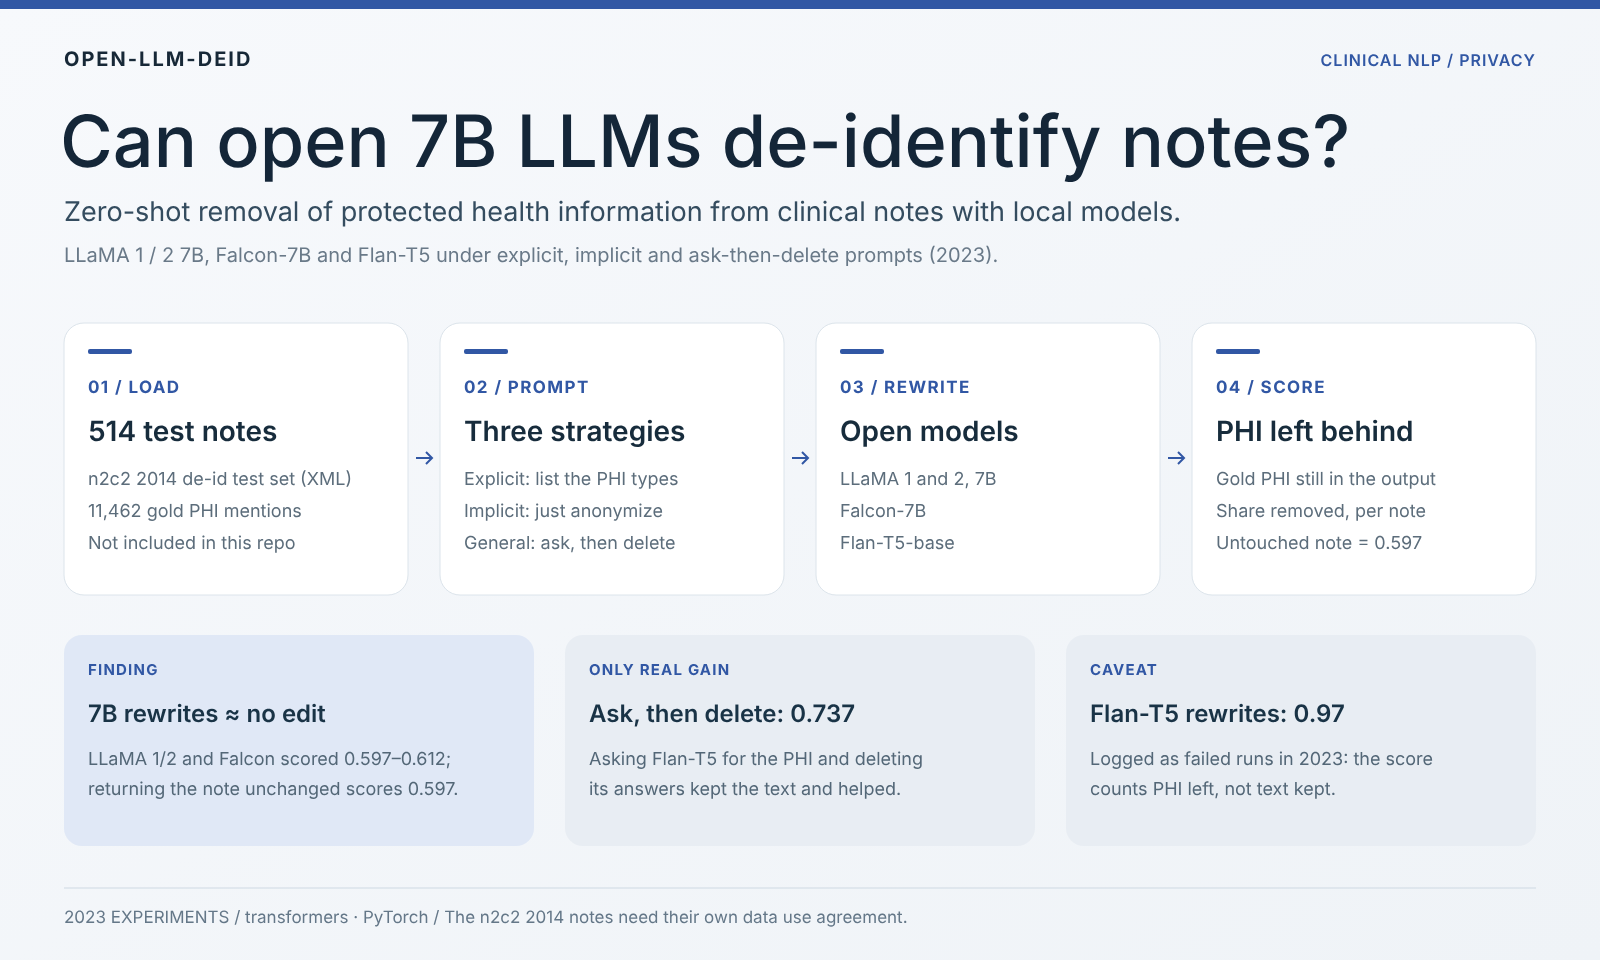
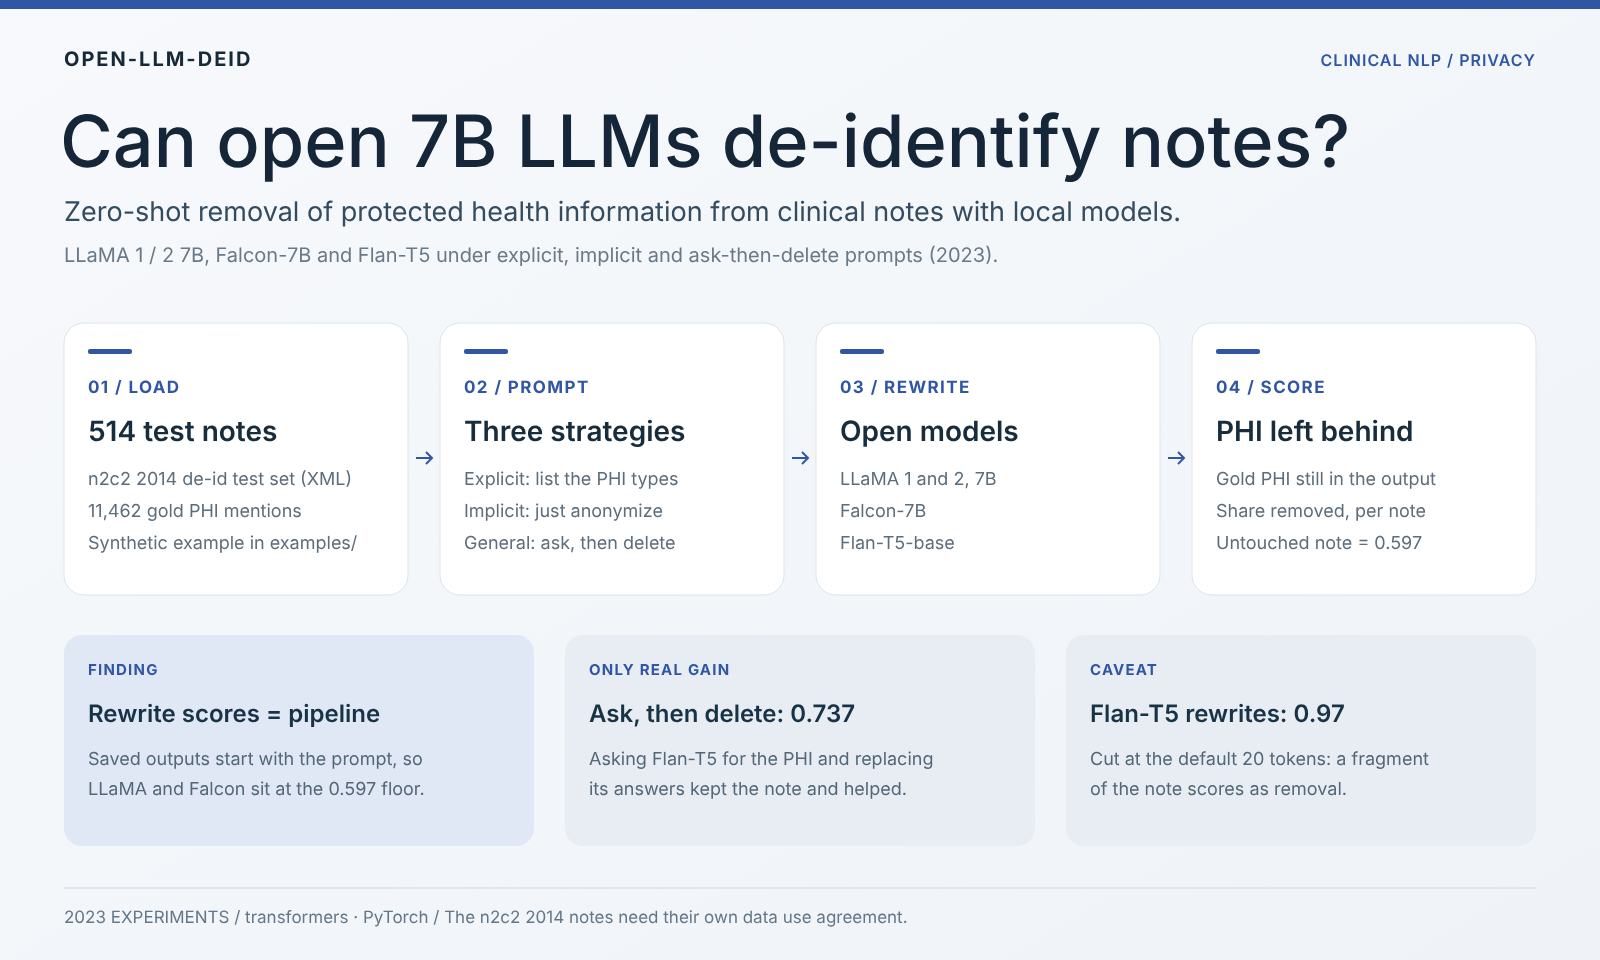
Add a synthetic worked example; correct what the 2023 scores show
examples/ holds an invented note in the n2c2 XML format, the exact input
for each prompt, hand-written expected outputs and a scorer that runs
without the restricted data. The README now explains that the rewrite
scores sit at the untouched-note floor because the scripts save the
prompt with the output (and Flan-T5 stops at 20 tokens), and lists what
a rerun needs.

diff --git a/examples/score_example.py b/examples/score_example.py
@@ -1,0 +1,44 @@
+"""Score the synthetic example with the same rule as Accuracy.py, no n2c2 data needed.
+
+    python3 examples/score_example.py
+
+Rule (as in Accuracy.py): a gold PHI string counts as leaked when it appears as a whole
+whitespace-separated word in the output; each distinct string counts once; the score is
+1 - leaked / number of PHI mentions.
+"""
+import os
+import xml.etree.ElementTree as ET
+
+HERE = os.path.dirname(os.path.abspath(__file__))
+CATS = ("NAME", "PROFESSION", "LOCATION", "AGE", "DATE", "CONTACT", "ID")
+
+
+def load(path):
+    root = ET.parse(path).getroot()
+    note = root.find("TEXT").text
+    phi = [t.get("text") for t in root.find("TAGS") if t.tag in CATS]
+    return note, phi
+
+
+def score(output, phi):
+    leaked = set(phi).intersection(output.split())
+    return 1 - len(leaked) / len(phi), sorted(leaked)
+
+
+def read(*parts):
+    with open(os.path.join(HERE, *parts), encoding="utf-8") as f:
+        return f.read()
+
+
+note, phi = load(os.path.join(HERE, "notes", "synthetic-001.xml"))
+cases = {
+    "note returned unchanged": note,
+    "prompt + note echoed (what a decoder-only run saves)": read("inputs", "explicit.txt"),
+    "explicit, expected output": read("expected", "explicit", "synthetic-001_anonymized.txt"),
+    "implicit, expected output": read("expected", "implicit", "synthetic-001_anonymized.txt"),
+    "general, expected output": read("expected", "general", "synthetic-001_anonymized.txt"),
+}
+print(f"{len(phi)} PHI mentions in the synthetic note\n")
+for name, text in cases.items():
+    s, leaked = score(text, phi)
+    print(f"{s:6.3f}  {name}" + (f"   leaked: {', '.join(leaked)}" if leaked else ""))

diff --git a/README.md b/README.md
@@ -10,7 +10,7 @@
 [![related](https://img.shields.io/badge/related-DeID--GPT%20·%20arXiv%202303.11032-B31B1B)](https://arxiv.org/abs/2303.11032)
 [![homepage](https://img.shields.io/badge/homepage-ccao2679.com-555555)](https://www.ccao2679.com/research/#deid)
 
-<img src="docs/figures/overview.png" alt="Overview poster: 514 n2c2 test notes, three prompt styles, four open models, scored by the share of gold PHI removed; 7B rewrites score about the same as an untouched note" width="100%">
+<img src="docs/figures/overview.png" alt="Overview poster: 514 n2c2 test notes, three prompt styles, four open models, scored by the share of gold PHI removed; the 2023 rewrite scores sit at the floor of an untouched note" width="100%">
 
 </div>
 
@@ -30,26 +30,26 @@
 
 ## Findings
 
-- **Setting.** The 514 notes of the 2014 i2b2/UTHealth (n2c2) de-identification test set, with 11,462 gold PHI mentions (names, professions, locations, ages, dates, contacts, IDs). The open models ran on local GPUs.
-- **7B rewrites barely touched the PHI.** Asked to rewrite a note without PHI, LLaMA 1 7B, LLaMA 2 7B and Falcon-7B scored 0.597–0.612. Returning the note unchanged scores **0.597** under the same metric, so these runs removed almost nothing.
-- **Asking, then deleting, worked better.** Asking Flan-T5-base for the names, dates and IDs in a note and deleting its answers from the text scored **0.737**, the only clear gain that also keeps the note intact.
-- **A high score is not a good rewrite.** Flan-T5's rewrite runs scored 0.97, but the 2023 log marks them as failed runs: the metric counts PHI left behind, not text kept, so over-deletion looks like success. [PROBLEM.md](PROBLEM.md) sets out the evaluation that would settle this.
+- **Setting.** The 514 notes of the 2014 i2b2/UTHealth (n2c2) de-identification test set, with 11,462 gold PHI mentions (names, professions, locations, ages, dates, contacts, IDs). The open models ran on local GPUs. A synthetic note in [`examples/`](examples/) shows every step without the restricted data.
+- **The 2023 rewrite scores measure the pipeline, not the models.** The generators save `tokenizer.decode(output[0])`. For LLaMA and Falcon that sequence starts with the prompt, which contains the whole note, so every PHI string is still in the saved file and the scores (0.597–0.612) sit on the floor of an untouched note (0.597). Flan-T5 is sequence-to-sequence and returns only new text, but `generate()` runs without a length setting, so it stops at the library default of 20 tokens and a fragment of the note scores 0.97.
+- **The one usable number: ask, then delete.** Asking Flan-T5-base one question per PHI type and replacing its answers in the original note scored **0.737** against the 0.597 floor, with the rest of the note left intact.
+- **What a rerun needs.** Save only the new tokens (`output[0][inputs.shape[1]:]`), set `max_new_tokens` to cover the note, use the chat template for chat models, and score over-deletion and text fidelity next to PHI removal, as [PROBLEM.md](PROBLEM.md) sets out.
 
 ## Results
 
-Share of gold PHI mentions no longer present in the output, averaged over the 514 notes (scripts: `Accuracy.py`).
+Share of gold PHI mentions no longer present in the saved output, averaged over the 514 notes (`Accuracy.py`).
 
 | Model | Explicit prompt | Implicit prompt | General (ask, then delete) |
 |---|---:|---:|---:|
-| LLaMA 1 7B | 0.612 | 0.609 | 0.597 |
-| LLaMA 2 7B | 0.612 | 0.609 | 0.597 |
-| Falcon-7B | 0.605 | 0.603 | 0.597 |
+| LLaMA 1 7B | 0.612\* | 0.609\* | 0.597\* |
+| LLaMA 2 7B | 0.612\* | 0.609\* | 0.597\* |
+| Falcon-7B | 0.605\* | 0.603\* | 0.597\* |
 | Flan-T5-base | 0.974† | 0.966† | **0.737** |
 | *Note returned unchanged* | *0.597* | | |
 
-† Logged as failed rewrites in the 2023 notes; the score does not check that the text survived.
+\* The decoded output begins with the prompt, which contains the note: rewrite files hold the whole note, and in the general runs the "answers" never match the note, so nothing is replaced. † Output cut at the default 20 tokens; a fragment scores as removal.
 
-**Reading the metric.** A PHI string counts as leaked when it appears as a whole word in the output, and each distinct string counts once however often it recurs, while the denominator counts every mention. Multi-word PHI such as an address never matches a single word. Together these let an untouched note score 0.597, so read every number against that floor. Precision values printed by the scripts are not meaningful and are left out.
+**Reading the metric.** A PHI string counts as leaked when it appears as a whole word in the output, and each distinct string counts once however often it recurs, while the denominator counts every mention. Multi-word PHI such as an address never matches a single word. Together these let an untouched note score 0.597, so read every number against that floor; [`examples/score_example.py`](examples/score_example.py) shows the same effect on the synthetic note. Precision values printed by the scripts are not meaningful and are left out.
 
 ## How it works
 
@@ -73,13 +73,14 @@ Share of gold PHI mentions no longer present in the output, averaged over the 51
 
 ## Data and privacy
 
-This repository holds **no clinical text**. The n2c2 notes, every model rewrite of them and the sentence files extracted from them were removed from the whole git history in October 2026, and `.gitignore` keeps such files out. The n2c2 data use agreement does not allow redistribution, so bring your own licensed copy. The Kaggle Reddit/Twitter comment files under `llama2-10k-datase/kaggle_data/` are public data kept from the planned fine-tuning set.
+This repository holds **no clinical text**; the note in `examples/` is synthetic. The n2c2 notes, every model rewrite of them and the sentence files extracted from them were removed from the whole git history in October 2026, and `.gitignore` keeps such files out. The n2c2 data use agreement does not allow redistribution, so bring your own licensed copy. The Kaggle Reddit/Twitter comment files under `llama2-10k-datase/kaggle_data/` are public data kept from the planned fine-tuning set.
 
 ## Repository layout
 
 | Path | Purpose |
 |---|---|
 | `Explicit*.py`, `Implicit*.py`, `General*.py` | One generator per prompt style (local 🤗 models) |
+| `examples/` | A synthetic note in the n2c2 format, the input for each prompt, the expected outputs and a scorer you can run |
 | `*_understand.py`, `Understand_Test/` | Probe whether a model understands the instruction itself |
 | `Experiment1/` | First runs with the `transformers` pipeline (Falcon, LLaMA 2, mT0 zero-shot NER) |
 | `flan/` | Flan-T5 variants (sequence-to-sequence) |

diff --git a/examples/README.md b/examples/README.md
@@ -1,0 +1,52 @@
+# Worked example (synthetic)
+
+**Everything in this folder is synthetic.** The note, its names, dates, places and numbers were invented for this repository; it is not an n2c2 note and contains no real patient data. It uses the 2014 i2b2/UTHealth XML format, so the scripts read it the same way they read the real test set.
+
+## The note
+
+[`notes/synthetic-001.xml`](notes/synthetic-001.xml): a short clinic note with ten gold PHI tags in the n2c2 layout (`TEXT` plus `TAGS` with character offsets):
+
+| Tag | TYPE | Text |
+|---|---|---|
+| DATE | DATE | 2091-03-14 |
+| LOCATION | HOSPITAL | NORTH HARBOR MEDICAL CENTER |
+| NAME | PATIENT | Delia Moreno |
+| ID | MEDICALRECORD | 4471-882 |
+| AGE | AGE | 58 |
+| NAME | PATIENT | Moreno |
+| PROFESSION | PROFESSION | school librarian |
+| DATE | DATE | 01/09/2091 |
+| CONTACT | PHONE | (555) 013-2847 |
+| NAME | DOCTOR | Owen Prasad |
+
+## Input and expected output for each prompt
+
+| Prompt | Input sent to the model | Expected output |
+|---|---|---|
+| **Explicit**: lists every PHI type and asks for `[redacted]` (`Explicit2.py`) | [`inputs/explicit.txt`](inputs/explicit.txt) | [`expected/explicit/`](expected/explicit/synthetic-001_anonymized.txt): every PHI string replaced by `[redacted]`, all other text unchanged |
+| **Implicit**: "Please anonymize the following text" (`Implicit2.py`) | [`inputs/implicit.txt`](inputs/implicit.txt) | [`expected/implicit/`](expected/implicit/synthetic-001_anonymized.txt): the prompt names no format, so a good answer may use typed placeholders such as `[PATIENT]` or `[DATE]` |
+| **General**: one question per PHI type, then each answer is replaced in the note (`General2.py`) | [`inputs/general.txt`](inputs/general.txt) (eight questions) | [`expected/general/answers.md`](expected/general/answers.md) for the answers, and [`expected/general/`](expected/general/synthetic-001_anonymized.txt) for the note after replacement |
+
+The expected outputs are written by hand to show what a correct result looks like; they are not model outputs.
+
+## Scoring it
+
+```bash
+python3 examples/score_example.py
+```
+
+```
+10 PHI mentions in the synthetic note
+
+ 0.600  note returned unchanged   leaked: 2091-03-14, 4471-882, 58, Moreno
+ 0.600  prompt + note echoed (what a decoder-only run saves)   leaked: 2091-03-14, 4471-882, 58, Moreno
+ 1.000  explicit, expected output
+ 1.000  implicit, expected output
+ 1.000  general, expected output
+```
+
+The first two lines show why the score has a floor. Only single-word PHI can match a whole word in the output, and `01/09/2091.` keeps its full stop, so the untouched note already scores 0.600. A file that echoes the prompt contains the whole note and scores exactly the same, which is what the 2023 LLaMA and Falcon runs saved (see the main [README](../README.md#findings)).
+
+## Running a model on it
+
+Set `input_directory = './examples/notes'` in any generator (for example `Explicit2.py`) and run it. Then point `Accuracy.py` at `original_directory = './examples/notes'` and the new output folder.

diff --git a/examples/expected/general/answers.md b/examples/expected/general/answers.md
@@ -1,0 +1,14 @@
+# Expected answers for the General (ask, then delete) prompt
+
+One question per PHI type, in the order `General2.py` asks them. Each answer is then replaced by `[redacted]` in the original note.
+
+| Question | Expected answer |
+|---|---|
+| What are the names? | Delia Moreno, Moreno, Owen Prasad |
+| Who are the professions? | school librarian |
+| What are the locations? | NORTH HARBOR MEDICAL CENTER |
+| What are ages? | 58 |
+| What are dates? | 2091-03-14, 01/09/2091 |
+| What are contacts? | (555) 013-2847 |
+| What are IDs? | 4471-882 |
+| What are the phone numbers? | (555) 013-2847 |
